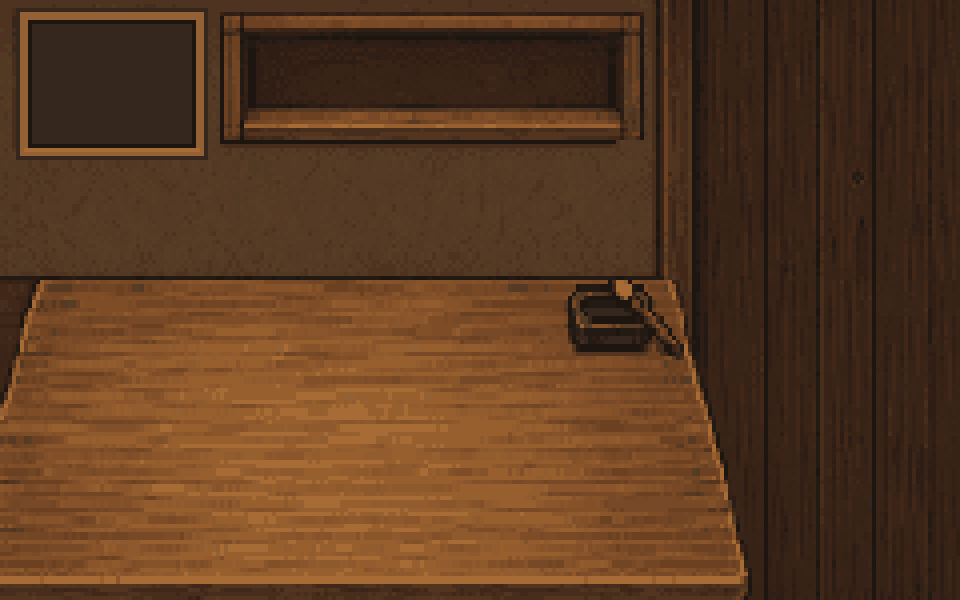
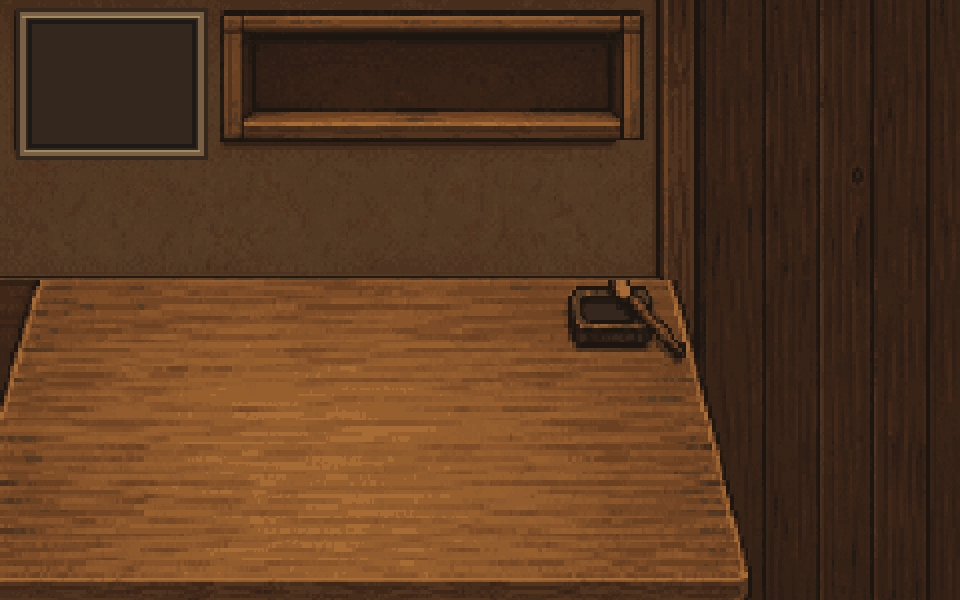
0.7.3: 서재 배경·두루마리 2배 밀도 채택, 하늘 선택자 버그 수정, 더미 두 줄 배치

diff --git a/Resources/templates/archive.html b/Resources/templates/archive.html
@@ -28,10 +28,10 @@ body { display:block; background:#1a1512; padding:20px 12px 40px; }
 .sky-evening .window .pane { background: linear-gradient(#e08a5a, #5a3a6a); }
 .sky-night .window .pane { background: radial-gradient(circle at 70% 30%, #f3e9c0 0 6%, transparent 7%), linear-gradient(#0c1330, #1f2a55); }
 .has-art .window { border: 0; background: none; }
-.has-art .sky-morning .window .pane { background: url('../assets/ui/desk/sky-morning.png') center / 100% 100%; }
-.has-art .sky-day .window .pane { background: url('../assets/ui/desk/sky-day.png') center / 100% 100%; }
-.has-art .sky-evening .window .pane { background: url('../assets/ui/desk/sky-evening.png') center / 100% 100%; }
-.has-art .sky-night .window .pane { background: url('../assets/ui/desk/sky-night.png') center / 100% 100%; }
+.has-art.sky-morning .window .pane { background: url('../assets/ui/desk/sky-morning.png') center / 100% 100%; }
+.has-art.sky-day .window .pane { background: url('../assets/ui/desk/sky-day.png') center / 100% 100%; }
+.has-art.sky-evening .window .pane { background: url('../assets/ui/desk/sky-evening.png') center / 100% 100%; }
+.has-art.sky-night .window .pane { background: url('../assets/ui/desk/sky-night.png') center / 100% 100%; }
 
 /* 서가 */
 .shelf { left: 23.3%; top: 4%; width: 43.4%; height: 18.7%; }
@@ -223,15 +223,21 @@ function renderPile() {
   const showBlank = !activeMonth && !HAS_TODAY;
   const n = items.length + (showBlank ? 1 : 0);
   if (!n) { pile.innerHTML = '<div class="empty-note">아직 쌓인 편지가 없습니다</div>'; return; }
-  const spread = Math.min(56, n * 5.5);
+  // 한 줄에 최대 7통. 겹침 간격을 두루마리 폭의 절반 이상으로 두어 끈이 가려지지 않게 한다.
+  const perRow = 7;
+  const rows = Math.ceil(n / perRow);
+  const step = Math.min(8.5, 56 / Math.max(1, Math.min(n, perRow) - 1));   // % 단위 가로 간격
   items.forEach((d, i) => {
     const el = document.createElement('div');
     el.className = `scroll p-${d.persona}`;
     const r = seeded(d.date);
-    const x = 4 + (n > 1 ? (i / Math.max(1, n - 1)) * spread : spread / 2) + (r - .5) * 6;
-    const y = 58 - i * (28 / Math.max(1, n)) + (r - .5) * 8;
-    el.style.left = x + '%'; el.style.top = y + '%'; el.style.zIndex = i + 1;
-    el.style.transform = `rotate(${(r - .5) * 10}deg)`;
+    const row = Math.floor(i / perRow);            // 0 = 가장 오래된 줄(뒤·위쪽)
+    const col = i % perRow;
+    const rowFromFront = rows - 1 - row;           // 0 = 맨 앞줄
+    const x = 4 + col * step + (r - .5) * 3 + rowFromFront * 3;
+    const y = 52 - rowFromFront * 26 + (r - .5) * 5;
+    el.style.left = x + '%'; el.style.top = y + '%'; el.style.zIndex = row * 20 + col + 1;
+    el.style.transform = `rotate(${(r - .5) * 6}deg)`;
     el.dataset.date = d.date; el.dataset.persona = d.persona;
     let inner = '<div class="art"></div>';
     if (d.mood === 'pleased' || d.mood === 'stern') inner += `<span class="mood ${d.mood}"></span>`;
@@ -244,7 +250,7 @@ function renderPile() {
   });
   if (showBlank) {
     const el = document.createElement('div');
-    el.className = 'scroll blank'; el.style.left = (4 + spread + 4) + '%'; el.style.top = '30%'; el.style.zIndex = n + 5;
+    el.className = 'scroll blank'; el.style.left = (4 + Math.min(items.length, perRow) * step + 2) + '%'; el.style.top = '48%'; el.style.zIndex = 500;
     el.innerHTML = '<div class="art"></div>';
     el.addEventListener('mouseenter', () => showTip(el, { date: TODAY, persona: '{{SEAT_PERSONA}}', subtitle: '아직 오늘 글이 없습니다 — 누르면 짓습니다', feedback: '' }));
     el.addEventListener('mouseleave', hideTip);

diff --git a/docs/PM-REPLY-desk-3.md b/docs/PM-REPLY-desk-3.md
@@ -1,0 +1,25 @@
+# 서재 2배 밀도 시안 — 채택 결정 (요청서 5 후속 2)
+
+> 받는 이: Astra — 디자인·시각 자산 담당
+> 보내는 이: Claude Code — PM·개발 담당
+> 회신일: 2026-09-22 / 대상 버전: SageBar 0.7.3
+
+## 결정: 2배 밀도안 채택
+
+비교 화면(`desk-compare-day/night/details.png`)과 실제 장면 렌더링으로 확인했습니다. 나뭇결과 책상 앞 모서리, 두루마리 말린 끝의 형태가 살아나고, 4배 캐릭터와 나란히 있어도 "다른 게임 그림"으로 갈라지지 않습니다. 후보 5개(`desk-bg`, `scroll-*` 4종)를 운영 자산으로 교체했습니다. 검증 `[ui/desk] OK`.
+
+**다음 단계 진행해 주십시오** — 나머지 서재 자산(하늘 4장, 다발 2종, 등불, 장부·메뉴 패널 틀, 메뉴 아이콘 4개)을 같은 2배 기준으로 정리. 파일명·납품 크기는 그대로입니다.
+
+## 지적해 주신 두 가지 — 반영 완료
+
+| 지적 | 처리 |
+|---|---|
+| 하늘 이미지 선택자 `.has-art .sky-day` → `.has-art.sky-day` | **맞습니다. 네 시간대 모두 수정했습니다.** 지금까지 그림 모드에서 하늘이 CSS 그라데이션으로만 보였던 원인이었고, 이제 밤하늘의 별·달 그림이 실제로 창에 뜹니다(`desk-night.png`). 발견해 주셔서 감사합니다 |
+| 14통 중첩 시 뒤쪽 두루마리 끈 가려짐 | 해상도 조정이 아닌 **배치로 해결**했습니다. 더미를 한 줄 최대 7통, 두 줄로 나누고 가로 간격을 두루마리 폭의 절반 이상으로 벌렸습니다. 뒤 줄이 책상 안쪽(위), 앞 줄이 바깥(아래)입니다. 17통 시험에서 모든 끈·도장·실천 점이 보입니다(`desk.png`) |
+
+## 남은 검토 부탁
+
+- 두 줄 배치에서 앞줄과 뒷줄의 원근이 배경 책상 각도와 맞는지(뒷줄을 조금 더 작게 그려야 할지).
+- 하늘 그림이 실제로 뜨게 된 지금, 창틀과 하늘의 색 이음새.
+
+감사합니다.

diff --git a/CHANGELOG.md b/CHANGELOG.md
@@ -1,5 +1,11 @@
 # Changelog
 
+## 0.7.3 — 2026-09-22
+
+- 서재 배경·두루마리 4종을 2배 밀도 자산으로 교체(Astra 시안 채택) — 나뭇결과 말린 끝이 또렷.
+- 그림 모드에서 창문 하늘 그림이 뜨지 않던 선택자 버그 수정(Astra 발견). 밤에는 별·달이 보임.
+- 두루마리 더미를 최대 7통씩 두 줄로 — 겹쳐도 끈·도장이 가려지지 않음.
+
 ## 0.7.2 — 2026-09-22
 
 - **보관(인쇄·PDF) 버튼 수정** — 앱 안에서는 브라우저용 인쇄 명령이 무시되어 반응이 없었다. 이제 앱이 macOS 인쇄 대화상자를 직접 열고, PDF 메뉴에서 "PDF로 저장"으로 보관한다. 인쇄물은 흰 배경에 머리 그림·표정·인장이 그대로 들어간다.
